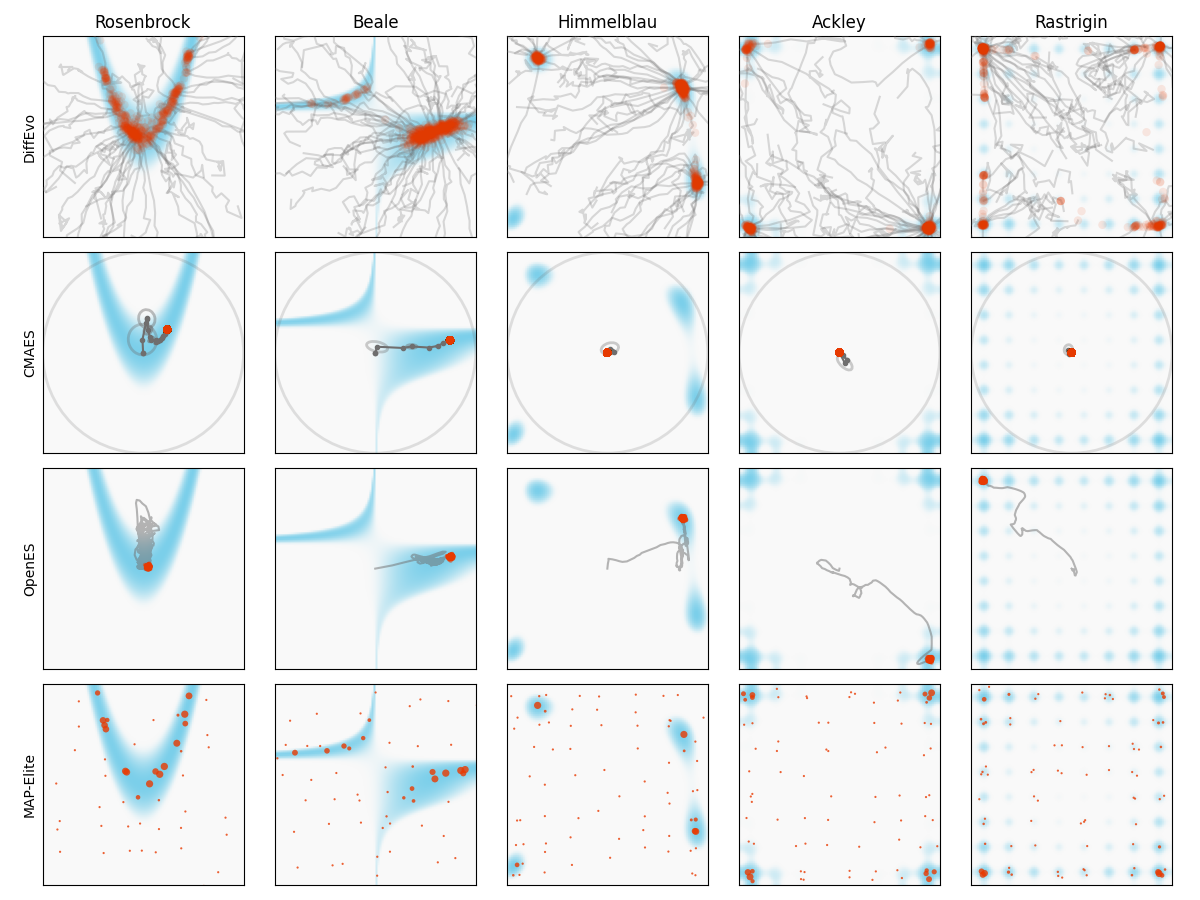
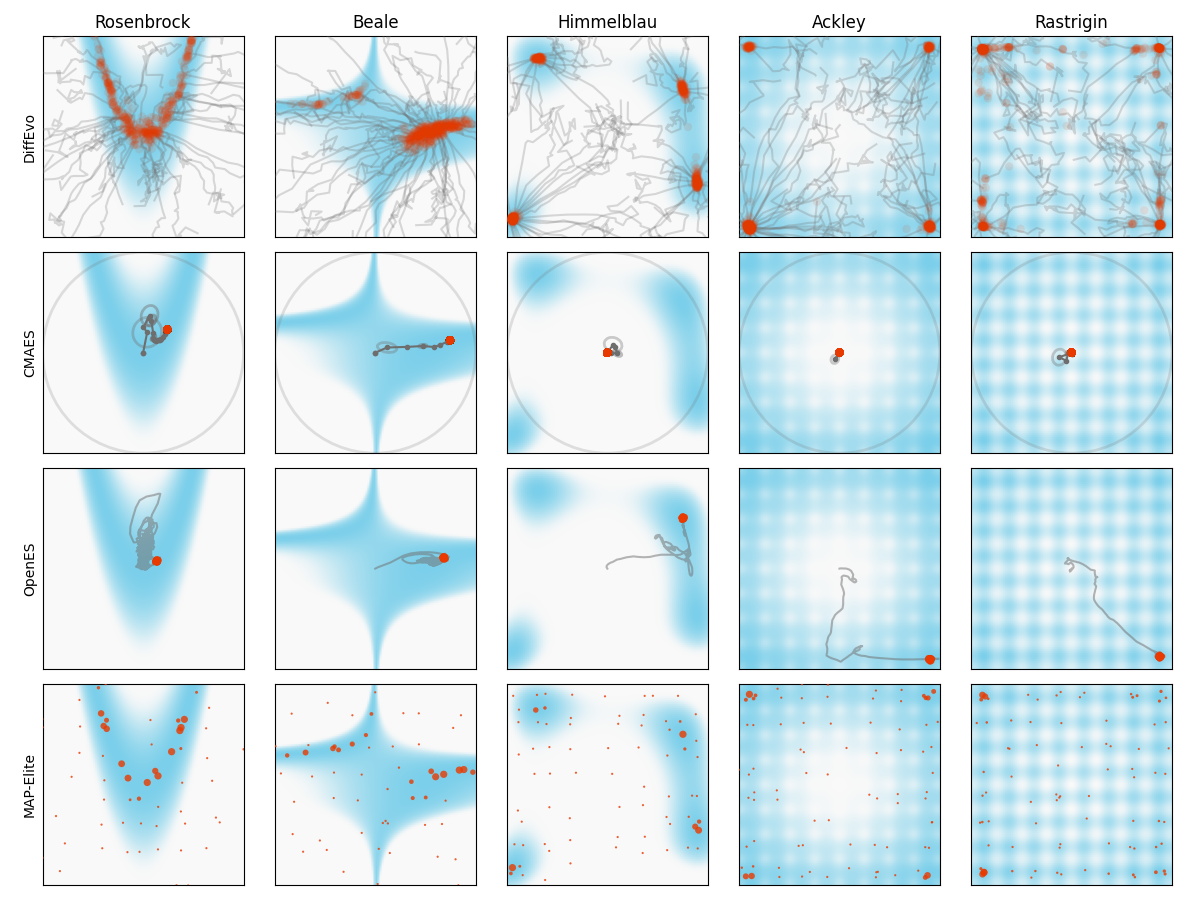
move methods into a folder to make code clean

diff --git a/experiments/benchmarks/methods/diff_evo.py b/experiments/benchmarks/methods/diff_evo.py
@@ -1,10 +1,9 @@
 import matplotlib.pyplot as plt
 import torch
 from tqdm import tqdm
-from diffevo import DDIMScheduler, BayesianGenerator, DDIMSchedulerCosine, DDPMScheduler, RandomProjection, LatentBayesianGenerator
-from benchmarks import plot_background, get_obj
-from foobench import Objective
-from color_plate import *
+from diffevo import DDIMScheduler, BayesianGenerator, DDIMSchedulerCosine, DDPMScheduler
+from .benchmarks import plot_background, get_obj
+from .color_plate import *
 
 
 
@@ -13,7 +12,6 @@ def experiment(obj, num_pop=256, num_step=100, scaling=4.0, temperatures=None, d
     scheduler = DDIMSchedulerCosine(num_step=num_step)
 
     x = torch.randn(num_pop, dim)
-    random_map = RandomProjection(dim, 2, normalize=True)
 
     trace = []
     x0_trace = []
@@ -23,7 +21,7 @@ def experiment(obj, num_pop=256, num_step=100, scaling=4.0, temperatures=None, d
     for t, alpha in tqdm(scheduler, total=num_step-1, disable=disable_bar):
         fitness = obj(x * scaling)
         fitnesses.append(fitness)
-        generator = LatentBayesianGenerator(x, random_map(x).detach(), fitness, alpha, density='uniform')
+        generator = BayesianGenerator(x, fitness, alpha, density='uniform')
         x, x0 = generator(noise=0.1, return_x0=True)
         x0_fit = obj(x0 * scaling)
         x0_fitness.append(x0_fit)
@@ -63,7 +61,7 @@ def prepare_data(obj, trace, x0_trace, arg, fitnesses, x0_fitness):
     }
     return info
 
-def LatentDiffEvo_benchmark(objs, num_steps, row=0, total_row=4, total_col=5, num_pop=256, scaling=4.0, plot=False, disable_bar=False, dim=2, **kwargs):
+def DiffEvo_benchmark(objs, num_steps, row=0, total_row=4, total_col=5, num_pop=256, scaling=4.0, plot=False, disable_bar=False, dim=2, **kwargs):
     arg = {
         "limit_val": 100,
         "num_pop": num_pop,
@@ -77,13 +75,6 @@ def LatentDiffEvo_benchmark(objs, num_steps, row=0, total_row=4, total_col=5, nu
 
     for i, name in enumerate(objs):
         obj, obj_rescaled = get_obj(name, **kwargs)
-        # if name has _4d, _32d, _256d, set dim to 4, 32, 256
-        if '_4d' in name:
-            dim = 4
-        elif '_32d' in name:
-            dim = 32
-        elif '_256d' in name:
-            dim = 256
         pop, trace, x0_trace, fitnesses, x0_fitness = experiment(
             obj_rescaled, 
             num_pop=num_pop, 
@@ -112,9 +103,9 @@ if __name__ == '__main__':
     obj_names = ["rosenbrock", "beale", "himmelblau", "ackley", "rastrigin"]
     
     plt.figure(figsize=(12, 3))
-    record = LatentDiffEvo_benchmark(obj_names, num_steps=100, row=0, total_row=1, num_pop=512, scaling=4, plot=True)
-    torch.save(record, './data/latent_diff_evo.pt')
+    record = DiffEvo_benchmark(obj_names, num_steps=100, row=0, total_row=1, num_pop=512, scaling=4, plot=True)
+    torch.save(record, './data/diff_evo.pt')
 
     plt.tight_layout()
-    plt.savefig('./images/latent_diff_evo.png')
+    plt.savefig('./images/diff_evo.png')
     plt.close()

diff --git a/experiments/benchmarks/methods/diff_evo_latent.py b/experiments/benchmarks/methods/diff_evo_latent.py
@@ -1,10 +1,9 @@
 import matplotlib.pyplot as plt
 import torch
 from tqdm import tqdm
-from diffevo import DDIMScheduler, BayesianGenerator, DDIMSchedulerCosine, DDPMScheduler
-from benchmarks import plot_background, get_obj
-from foobench import Objective
-from color_plate import *
+from diffevo import DDIMScheduler, BayesianGenerator, DDIMSchedulerCosine, DDPMScheduler, RandomProjection, LatentBayesianGenerator
+from .benchmarks import plot_background, get_obj
+from .color_plate import *
 
 
 
@@ -13,6 +12,7 @@ def experiment(obj, num_pop=256, num_step=100, scaling=4.0, temperatures=None, d
     scheduler = DDIMSchedulerCosine(num_step=num_step)
 
     x = torch.randn(num_pop, dim)
+    random_map = RandomProjection(dim, 2, normalize=True)
 
     trace = []
     x0_trace = []
@@ -22,7 +22,7 @@ def experiment(obj, num_pop=256, num_step=100, scaling=4.0, temperatures=None, d
     for t, alpha in tqdm(scheduler, total=num_step-1, disable=disable_bar):
         fitness = obj(x * scaling)
         fitnesses.append(fitness)
-        generator = BayesianGenerator(x, fitness, alpha, density='uniform')
+        generator = LatentBayesianGenerator(x, random_map(x).detach(), fitness, alpha, density='uniform')
         x, x0 = generator(noise=0.1, return_x0=True)
         x0_fit = obj(x0 * scaling)
         x0_fitness.append(x0_fit)
@@ -62,7 +62,7 @@ def prepare_data(obj, trace, x0_trace, arg, fitnesses, x0_fitness):
     }
     return info
 
-def DiffEvo_benchmark(objs, num_steps, row=0, total_row=4, total_col=5, num_pop=256, scaling=4.0, plot=False, disable_bar=False, dim=2, **kwargs):
+def LatentDiffEvo_benchmark(objs, num_steps, row=0, total_row=4, total_col=5, num_pop=256, scaling=4.0, plot=False, disable_bar=False, dim=2, **kwargs):
     arg = {
         "limit_val": 100,
         "num_pop": num_pop,
@@ -76,6 +76,13 @@ def DiffEvo_benchmark(objs, num_steps, row=0, total_row=4, total_col=5, num_pop=
 
     for i, name in enumerate(objs):
         obj, obj_rescaled = get_obj(name, **kwargs)
+        # if name has _4d, _32d, _256d, set dim to 4, 32, 256
+        if '_4d' in name:
+            dim = 4
+        elif '_32d' in name:
+            dim = 32
+        elif '_256d' in name:
+            dim = 256
         pop, trace, x0_trace, fitnesses, x0_fitness = experiment(
             obj_rescaled, 
             num_pop=num_pop, 
@@ -104,9 +111,9 @@ if __name__ == '__main__':
     obj_names = ["rosenbrock", "beale", "himmelblau", "ackley", "rastrigin"]
     
     plt.figure(figsize=(12, 3))
-    record = DiffEvo_benchmark(obj_names, num_steps=100, row=0, total_row=1, num_pop=512, scaling=4, plot=True)
-    torch.save(record, './data/diff_evo.pt')
+    record = LatentDiffEvo_benchmark(obj_names, num_steps=100, row=0, total_row=1, num_pop=512, scaling=4, plot=True)
+    torch.save(record, './data/latent_diff_evo.pt')
 
     plt.tight_layout()
-    plt.savefig('./images/diff_evo.png')
+    plt.savefig('./images/latent_diff_evo.png')
     plt.close()

diff --git a/experiments/benchmarks/plotbenchmark.py b/experiments/benchmarks/plotbenchmark.py
@@ -1,9 +1,5 @@
 import matplotlib.pyplot as plt
-from cmaes import CMAES_benchmark
-from diff_evo import DiffEvo_benchmark
-from pepg import PEPG_benchmark
-from openes import OpenES_benchmark
-from map_elite import MAPElite_benchmark
+from methods import *
 import torch
 import numpy as np
 import random
@@ -12,7 +8,7 @@ objs = ["rosenbrock", "beale", "himmelblau", "ackley", "rastrigin"]
 
 if __name__ == '__main__':
     # set random seed for reproducibility
-    seed = 10
+    seed = 1
     torch.manual_seed(seed)
     np.random.seed(seed)
     random.seed(seed)
@@ -20,24 +16,21 @@ if __name__ == '__main__':
     num_benchmark = 4
     plt.figure(figsize=(12, 1 + num_benchmark * 2))
 
+    temperature = 0.1
     # DiffEvo
-    record = DiffEvo_benchmark(objs, num_steps=25, row=0, total_row=num_benchmark, plot=True, num_pop=512)
+    record = DiffEvo_benchmark(objs, num_steps=25, row=0, total_row=num_benchmark, plot=True, num_pop=512, temperature=temperature)
     torch.save(record, './data/diff_evo.pt')
 
     # CMAES
-    record = CMAES_benchmark(objs, num_steps=25, row=1, total_row=num_benchmark, limit_val=100, plot=True)
+    record = CMAES_benchmark(objs, num_steps=25, row=1, total_row=num_benchmark, limit_val=100, plot=True, temperature=temperature)
     torch.save(record, './data/cmaes.pt')
 
     # OpenES
-    record = OpenES_benchmark(objs, num_steps=1000, row=2, total_row=num_benchmark, plot=True)
+    record = OpenES_benchmark(objs, num_steps=1000, row=2, total_row=num_benchmark, plot=True, temperature=temperature)
     torch.save(record, './data/openes.pt')
 
-    # PEPG
-    # record = PEPG_benchmark(objs, num_steps=25, row=3, total_row=num_benchmark, plot=True)
-    # torch.save(record, './data/pepg.pt')
-
     # MAPElite
-    record = MAPElite_benchmark(objs, num_steps=25, row=3, total_row=num_benchmark, plot=True)
+    record = MAPElite_benchmark(objs, num_steps=25, row=3, total_row=num_benchmark, plot=True, temperature=temperature)
     torch.save(record, './data/map_elite.pt')
 
     # save the plot

diff --git a/experiments/benchmarks/statistic.py b/experiments/benchmarks/statistic.py
@@ -1,10 +1,5 @@
 import matplotlib.pyplot as plt
-from cmaes import CMAES_benchmark
-from diff_evo import DiffEvo_benchmark
-from pepg import PEPG_benchmark
-from openes import OpenES_benchmark
-from map_elite import MAPElite_benchmark
-from diff_evo_latent import LatentDiffEvo_benchmark
+from methods import *
 import torch
 import os
 import numpy as np
@@ -139,7 +134,7 @@ def get_all_records(num_experiments):
 if __name__ == '__main__':
     num_experiments = 10#100
     top_k = 64
-    cache = True
+    cache = False
 
     # set random seed
     random.seed(42)

diff --git a/experiments/benchmarks/methods/diff_evo_highd.py b/experiments/benchmarks/methods/diff_evo_highd.py
@@ -2,8 +2,8 @@ import matplotlib.pyplot as plt
 import torch
 from tqdm import tqdm
 from diffevo import DDIMScheduler, BayesianGenerator, DDIMSchedulerCosine, DDPMScheduler, RandomProjection, LatentBayesianGenerator
-from benchmarks import plot_background, get_obj
-from color_plate import *
+from .benchmarks import plot_background, get_obj
+from .color_plate import *
 
 
 def energy_prob_mapping(fitness, temperature):

diff --git a/experiments/benchmarks/methods/pepg.py b/experiments/benchmarks/methods/pepg.py
@@ -1,11 +1,11 @@
-from benchmarks import plot_background, get_obj
-from es import PEPG
+from .benchmarks import plot_background, get_obj
+from .es import PEPG
 import numpy as np
 import matplotlib.pyplot as plt
 import torch
 from copy import deepcopy
 from matplotlib.patches import Ellipse
-from color_plate import *
+from .color_plate import *
 
 # https://www.sciencedirect.com/science/article/pii/S0893608009003220
 

diff --git a/experiments/benchmarks/methods/cmaes.py b/experiments/benchmarks/methods/cmaes.py
@@ -1,10 +1,10 @@
-from es import CMAES
+from .es import CMAES
 from matplotlib.patches import Ellipse
 import numpy as np
 import matplotlib.pyplot as plt
 import torch
-from benchmarks import plot_background, get_obj
-from color_plate import *
+from .benchmarks import plot_background, get_obj
+from .color_plate import *
 
 
 def CMAES_experiment(obj, num_steps=10, sigma_init=1):

diff --git a/experiments/benchmarks/methods/map_elite.py b/experiments/benchmarks/methods/map_elite.py
@@ -1,9 +1,9 @@
-from benchmarks import plot_background, get_obj
+from .benchmarks import plot_background, get_obj
 import numpy as np
 import matplotlib.pyplot as plt
 import torch
 from copy import deepcopy
-from color_plate import *
+from .color_plate import *
 
 
 def MapEliteExperiment(obj, init_num_pop=100, num_iter=256, sigma_mut=0.1, sigma_init=1, grid_size=10):

diff --git a/experiments/benchmarks/methods/benchmarks.py b/experiments/benchmarks/methods/benchmarks.py
@@ -16,7 +16,7 @@ Main functions used in the benchmarks:
 import matplotlib.pyplot as plt
 from foobench import Objective
 import torch
-from color_plate import *
+from .color_plate import *
 
 
 # set fitness target and distance scale to unify the scale and slope of the fitness

diff --git a/experiments/benchmarks/methods/__init__.py b/experiments/benchmarks/methods/__init__.py
@@ -1,0 +1,6 @@
+from .cmaes import CMAES_benchmark
+from .diff_evo import DiffEvo_benchmark
+from .openes import OpenES_benchmark
+from .map_elite import MAPElite_benchmark
+from .diff_evo_latent import LatentDiffEvo_benchmark
+from .pepg import PEPG_benchmark

diff --git a/experiments/benchmarks/methods/openes.py b/experiments/benchmarks/methods/openes.py
@@ -1,8 +1,8 @@
-from benchmarks import plot_background, get_obj
+from .benchmarks import plot_background, get_obj
 import numpy as np
 import matplotlib.pyplot as plt
 import torch
-from color_plate import *
+from .color_plate import *
 
 
 class OpenES:
